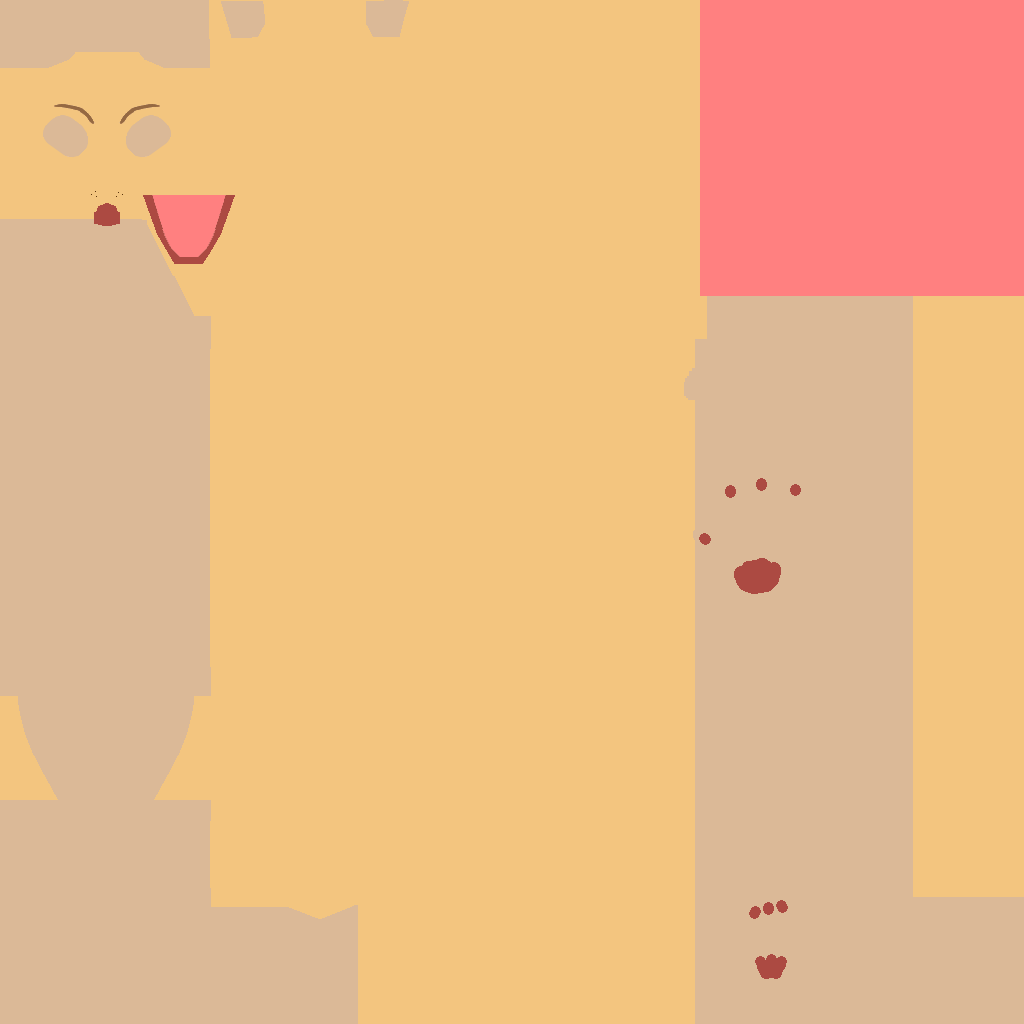
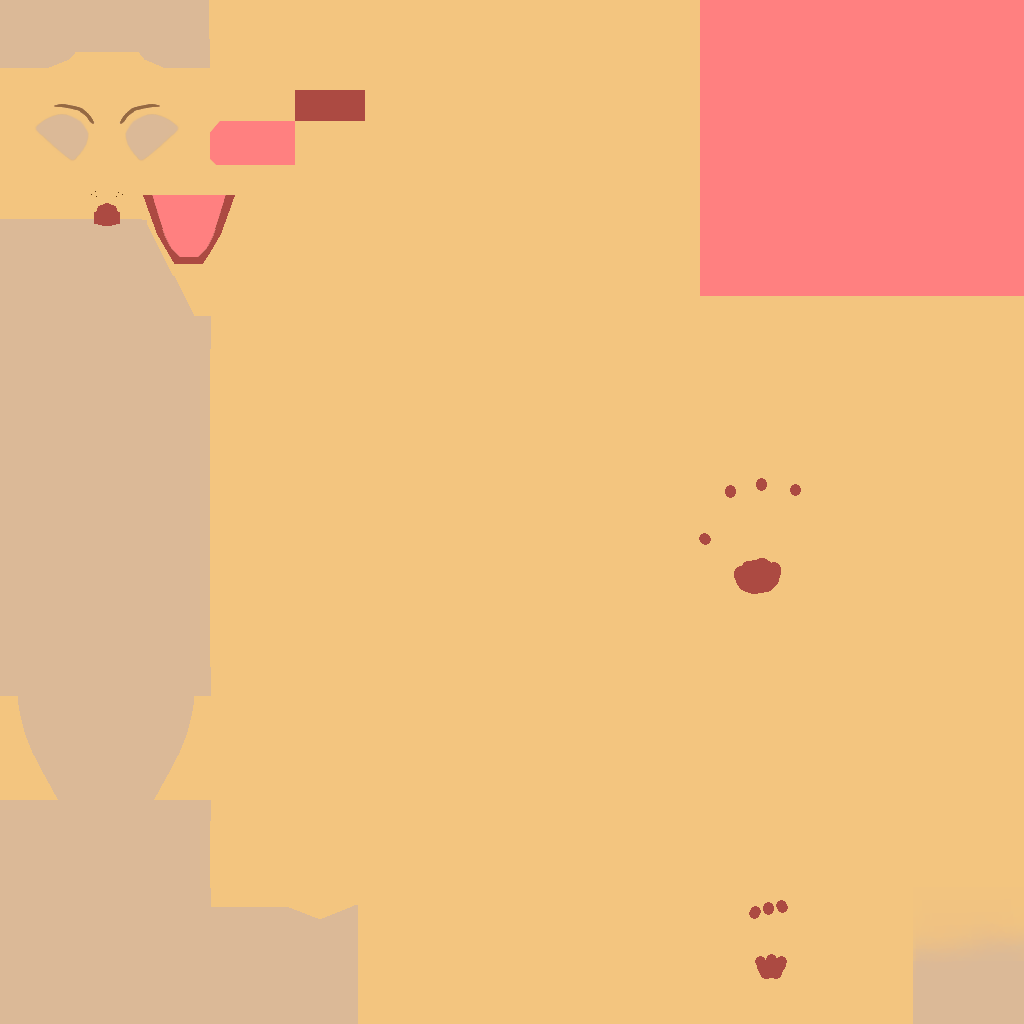
Added UV map to bookHardcoverClosed01

Changed region(s): [[0.1875, 0.0625, 0.375, 0.1875]]

diff --git a/resources/js/mainBabylon.js b/resources/js/mainBabylon.js
@@ -442,6 +442,7 @@ function generateApartmentScene() {
     Game.addItemMesh("cross", "crossInstance01", {mass:0.8,restitution:0.1}, {x:10, y:2, z:-22});
     Game.addItemMesh("plate", "planeInstance01", {mass:0.8,restitution:0.1}, {x:9.7, y:2, z:-22});
     Game.addItemMesh("plate", "plateInstance02", {mass:0.8,restitution:0.1}, {x:10.3, y:2, z:-22});
+    Game.addItemMesh("bookHardcoverClosed01", "packstreet23StrangeNewDay", {mass:0.8,restitution:0.1}, {x:10.3, y:1, z:-23}, {x:0, y:180, z:0});
 
     Game.addMesh("wall", undefined,                 {x:0, y:0, z:-24}, {x:0, y:-90, z:0});
     Game.addMesh("corner", undefined,               {x:4, y:0, z:-24}, {x:0, y:180, z:0});
